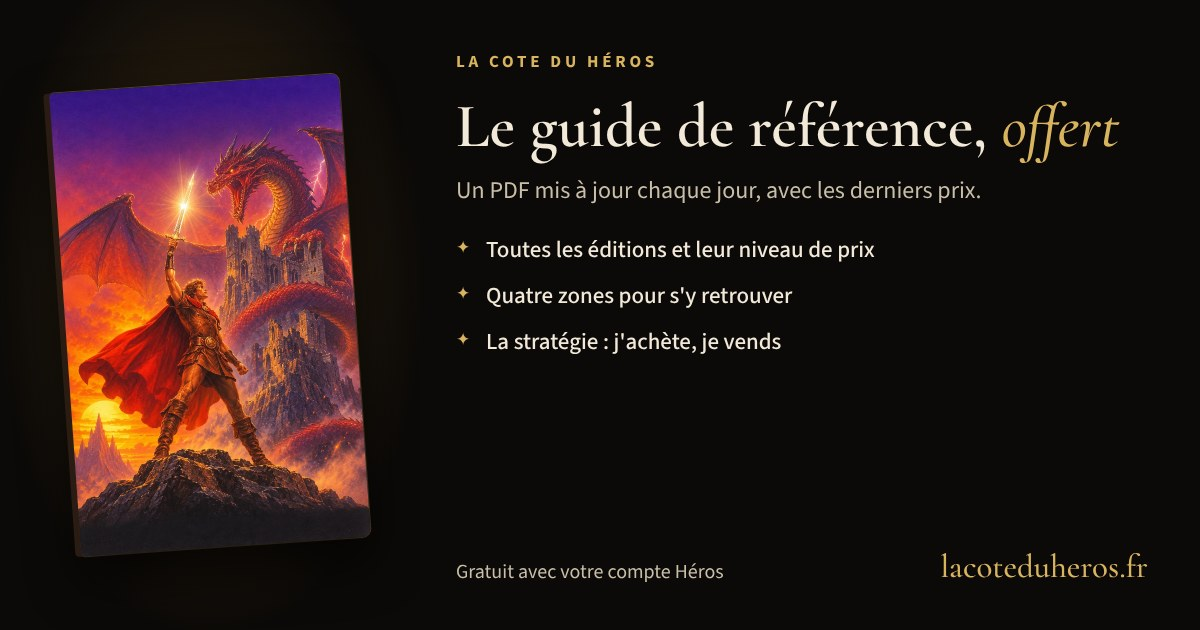
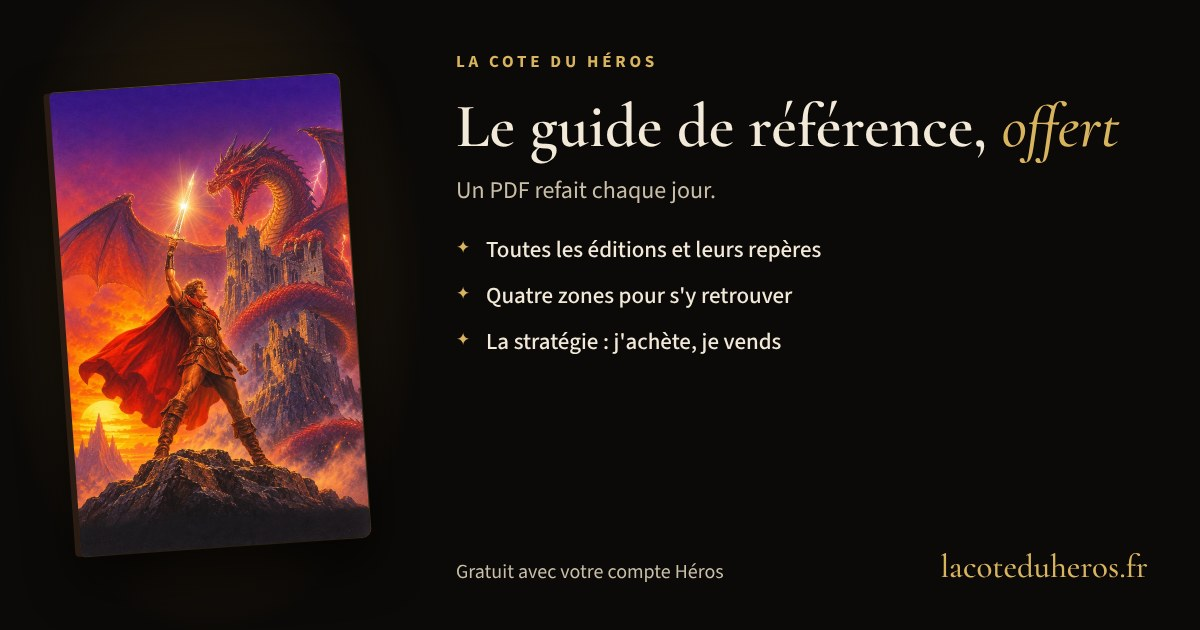
Nouvelle du guide : repères du marché, sans prix (#1306)
* Annonces : préréglages Chasse et Veille hors du panneau, repris dans le générateur de pages

Claude-Session: https://claude.ai/code/session_01HTe4GG8zQBr2ycdCYNMDrp

* Consignes : les pages générées se modifient dans le gabarit

Claude-Session: https://claude.ai/code/session_01HTe4GG8zQBr2ycdCYNMDrp

* Offre Sorcier : textes plus positifs (articles et bandeau de fin d'accès)

Claude-Session: https://claude.ai/code/session_01HTe4GG8zQBr2ycdCYNMDrp

* Nouvelle : le guide de référence, offert et mis à jour chaque jour (page, carte Communauté, flux RSS)

Claude-Session: https://claude.ai/code/session_01HTe4GG8zQBr2ycdCYNMDrp

* Nouvelle du guide de référence : version courte

Claude-Session: https://claude.ai/code/session_01HTe4GG8zQBr2ycdCYNMDrp

* Nouvelle du guide : le guide donne un niveau de prix, pas la cote par état

Claude-Session: https://claude.ai/code/session_01HTe4GG8zQBr2ycdCYNMDrp

* Nouvelle du guide : intitulé exact de l'entrée du menu

Claude-Session: https://claude.ai/code/session_01HTe4GG8zQBr2ycdCYNMDrp

* Nouvelle du guide : repères du marché, sans prix

Claude-Session: https://claude.ai/code/session_01HTe4GG8zQBr2ycdCYNMDrp

---------

Changed region(s): [[0.4625, 0.2714, 0.8017, 0.3317], [0.6167, 0.3921, 0.74, 0.4222]]

diff --git a/web/guide-reference.html b/web/guide-reference.html
@@ -4,12 +4,12 @@
 <meta charset="utf-8">
 <meta name="viewport" content="width=device-width, initial-scale=1">
 <title>Le guide de référence, offert · La Cote du Héros</title>
-<meta name="description" content="Chaque livre, chaque édition, son niveau de prix, et une méthode simple pour acheter et vendre : le guide PDF est offert et refait chaque jour.">
+<meta name="description" content="Chaque livre, chaque édition et ses repères du marché, avec une méthode simple pour acheter et vendre : le guide PDF est offert et refait chaque jour.">
 <meta property="og:type" content="website">
 <meta property="og:site_name" content="La Cote du Héros">
 <meta property="og:locale" content="fr_FR">
 <meta property="og:title" content="Le guide de référence, offert · La Cote du Héros">
-<meta property="og:description" content="Chaque livre, chaque édition, son niveau de prix, et une méthode simple pour acheter et vendre : le guide PDF est offert et refait chaque jour.">
+<meta property="og:description" content="Chaque livre, chaque édition et ses repères du marché, avec une méthode simple pour acheter et vendre : le guide PDF est offert et refait chaque jour.">
 <meta property="og:image" content="https://lacoteduheros.fr/data/communaute/guide-reference-partage.jpg">
 <meta property="og:image:width" content="1200">
 <meta property="og:image:height" content="630">
@@ -54,10 +54,10 @@
 <p class="surtitre">Nouvelle · <time datetime="2026-11-22">22 novembre 2026</time></p>
 <h1>Le guide de référence, offert</h1>
 <img class="nouvelle-img pleine" src="images/guide-reference.webp" alt="Le guide de référence de La Cote du Héros : une couverture de héros face à un dragon, et ce que contient le guide" width="1200" height="630" decoding="async">
-<p>Chaque livre, chaque édition, son niveau de prix, et une méthode simple pour savoir quand acheter et quand vendre. Le guide est <strong>offert</strong> et <strong>refait chaque jour</strong> avec les derniers prix.</p>
+<p>Chaque livre, chaque édition et ses repères du marché, avec une méthode simple pour savoir quand acheter et quand vendre. Le guide est <strong>offert</strong> et <strong>refait chaque jour</strong>.</p>
 <h2>Dedans</h2>
 <ul>
-  <li>Tous les livres, éditeur par éditeur, avec leur niveau de prix.</li>
+  <li>Tous les livres, éditeur par éditeur, avec leurs repères : ce qu'on trouve en vente, et si c'est cher ou bon marché.</li>
   <li>Quatre zones pour situer chaque livre (rare ou courant, cher ou bon marché).</li>
   <li>La stratégie du collectionneur : j'achète, je vends.</li>
 </ul>
